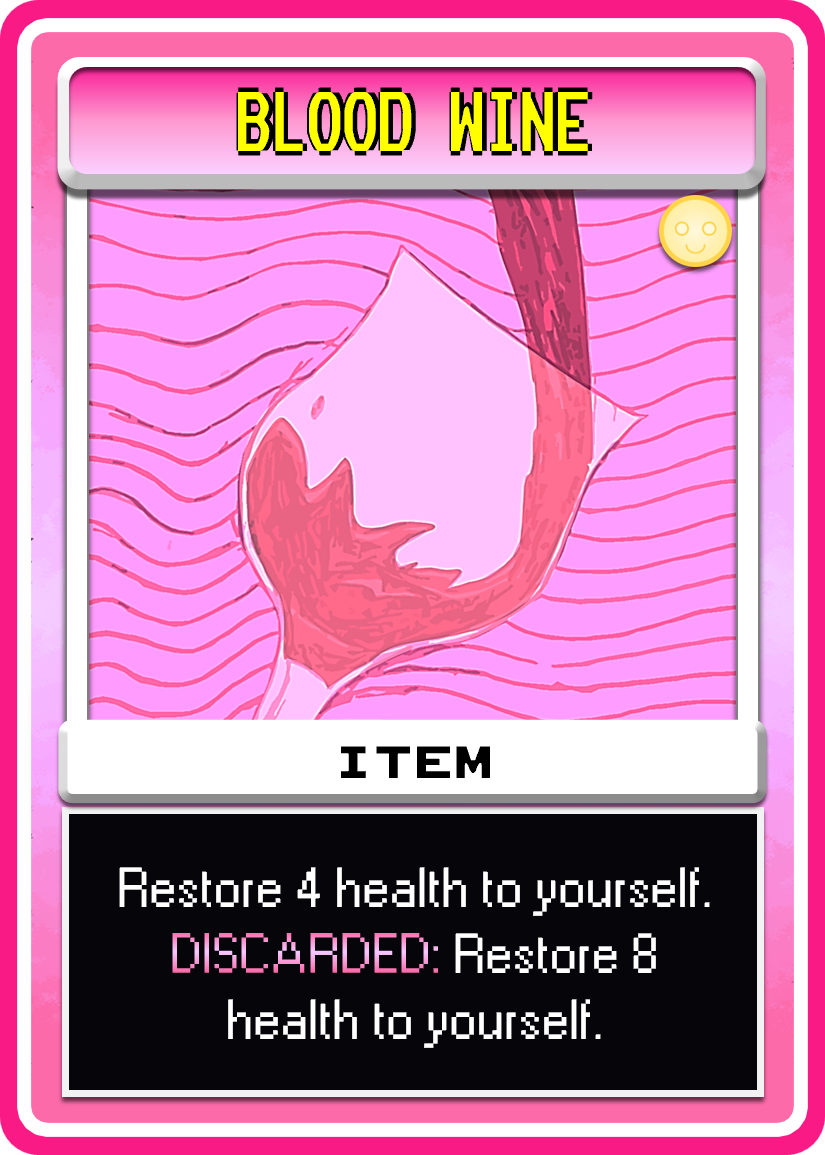
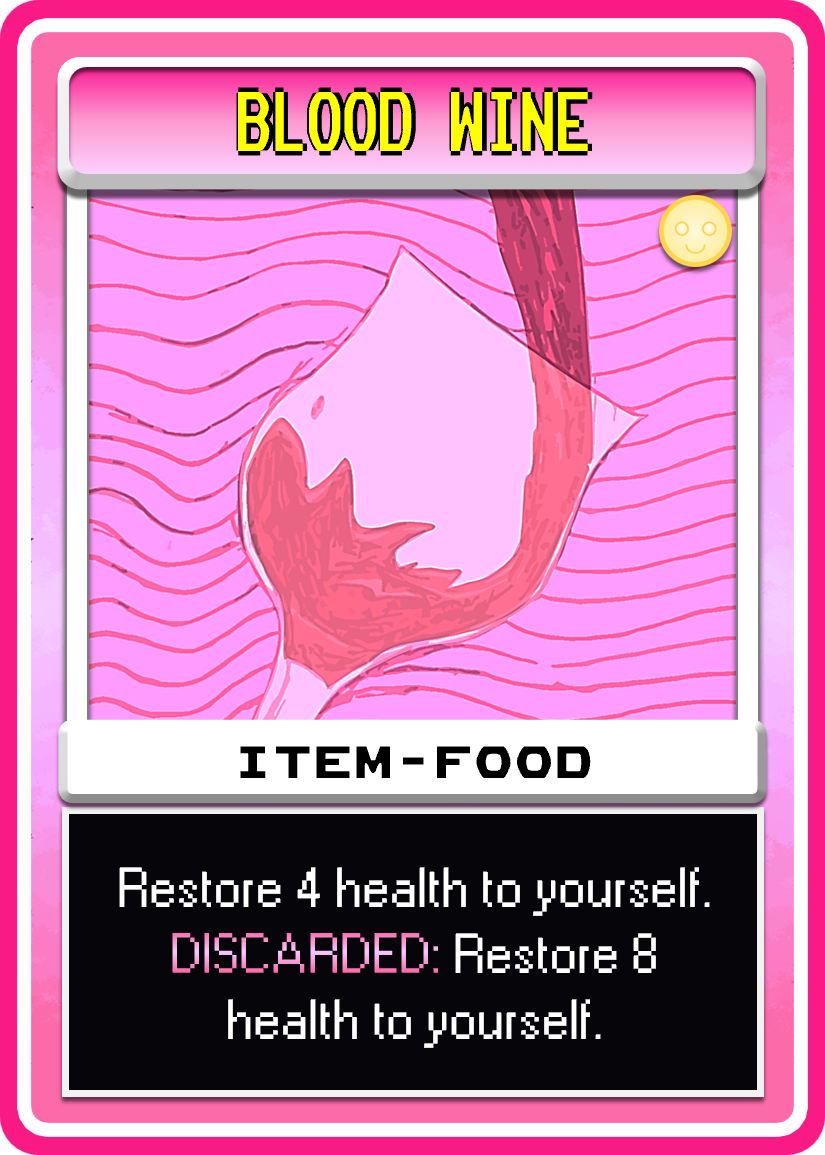
Sudden Death 0.0.8w: Natural Boy Genius

Changed region(s): [[0.2727, 0.6234, 0.7273, 0.6857]]

diff --git a/cardList.js b/cardList.js
@@ -1,7 +1,7 @@
 // List of Cards
 const cardList = new Array(
   // Abilities
-  ["agony_manifest", "Agony Manifest", "Ability", "Icklurtra"],
+  ["agony_manifest", "Agony Manifest", "Ability", "Masochist"],
   ["bomber_games", "Bomber Games", "Ability", "Moneybags"],
   ["calling_card", "Calling Card", "Ability", "Aoi Manto"],
   ["danse_macabre", "Danse Macabre", "Ability", "Hitzel"],
@@ -19,9 +19,11 @@ const cardList = new Array(
   ["immortal_body", "Immortal Body", "Ability", "Thysia"],
   ["investigate", "Investigate", "Ability", "Choizao"],
   ["jabberwocky", "Jabberwocky", "Ability", "Knell"],
+  ["lets_go_gambling", "Let's Go Gambling!", "Ability", "Albert"],
   ["life_swap", "Life Swap", "Ability", "Isabelle"],
   ["mass_pickle_doomsday_ray", "Mass Pickle Doomsday Ray", "Ability", "Geevil"],
   ["midas_touch", "Midas Touch", "Ability", "Quincy"],
+  ["natural_boy_genius", "Natural Boy Genius", "Ability", "Pinky"],
   ["occult_cutlery", "Occult Cutlery", "Ability", "Jujube"],
   ["right_of_way", "Right-of-Way", "Ability", "Traffic Knight"],
   ["royal_ego", "Royal Ego", "Ability", "Zekoma"],
@@ -90,7 +92,6 @@ const cardList = new Array(
   ["expel_evil", "Expel Evil", "Event", ""],
   ["faceless_shambles", "Faceless Shambles", "Event", ""],
   ["floradian_doorway", "Floradian Doorway", "Event", ""],
-  ["fortune_cookie", "Fortune Cookie", "Event", ""],
   ["funny_sunny_day", "Funny Sunny Day", "Event", ""],
   ["furcifer", "Furcifer", "Event", ""],
   ["gamblers_paradox", "Gamblers_Paradox", "Event", ""],
@@ -181,20 +182,21 @@ const cardList = new Array(
   ["zero_degree_murder", "Zero-Degree Murder", "Event", ""],
   // Items
   ["asternsolid_shell", "Asternsolid Shell", "Item", ""],
-  ["backup_milk_carton", "Backup Milk Carton", "Item", ""],
+  ["backup_milk_carton", "Backup Milk Carton", "Item", "Food"],
   ["banchou_bodysuit", "Banchou Bodysuit", "Item", ""],
-  ["blood_wine", "Blood Wine", "Item", ""],
+  ["blood_wine", "Blood Wine", "Item", "Food"],
   ["capsaicin_core", "Capsaicin Core", "Item", ""],
-  ["chatty", "Chatty", "Item", ""],
+  ["chatty", "Chatty", "Item", "Occult"],
   ["chronas_head", "Chrona's Head", "Item", ""],
-  ["clown_cola", "Clown Cola", "Item", ""],
+  ["clown_cola", "Clown Cola", "Item", "Food"],
   ["detached_hand", "Detached Hand", "Item", ""],
-  ["eidolon_elixir", "Eidolon Elixir", "Item", ""],
-  ["flesh_fungus", "Flesh Fungus", "Item", ""],
-  ["follower_mask", "Follower Mask", "Item", "Mask"],
-  ["freshly_squeezed_lemonade", "Freshly Squeezed Lemonade", "Item", ""],
-  ["nibble_bar", "Nibble Bar", "Item", ""],
-  ["observers_eye", "Observer's Eye", "Item", ""],
+  ["eidolon_elixir", "Eidolon Elixir", "Item", "Occult Food"],
+  ["flesh_fungus", "Flesh Fungus", "Item", "Occult Food"],
+  ["follower_mask", "Follower Mask", "Item", "Occult Mask"],
+  ["fortune_cookie", "Fortune Cookie", "Event", "Food"],
+  ["freshly_squeezed_lemonade", "Freshly Squeezed Lemonade", "Item", "Food"],
+  ["nibble_bar", "Nibble Bar", "Item", "Food"],
+  ["observers_eye", "Observer's Eye", "Item", "Occult"],
   ["orion_blizzard", "ORION Blizzard", "Item", "ORION"],
   ["orion_cyclone", "ORION Cyclone", "Item", "ORION"],
   ["orion_quake", "ORION Quake", "Item", "ORION"],
@@ -202,13 +204,13 @@ const cardList = new Array(
   ["orion_tornado", "ORION Tornado", "Item", "ORION"],
   ["orion_tsunami", "ORION Tsunami", "Item", "ORION"],
   ["orion_volcano", "ORION Volcano", "Item", "ORION"],
-  ["pocket_encyclopedia", "Pocket Encyclopedia", "Item", ""],
-  ["potion_of_self_love", "Potion of Self-Love", "Item", ""],
+  ["pocket_encyclopedia", "Pocket Encyclopedia", "Item", "Paper"],
+  ["potion_of_self_love", "Potion of Self-Love", "Item", "Food"],
   ["psychologic_mask", "Psychologic Mask", "Item", "Mask"],
   ["purple_pebble", "Purple Pebble", "Item", ""],
   ["remote_control", "Remote Control", "Item", ""],
   ["sniffer_mask", "Sniffer Mask", "Item", "Mask"],
-  ["strange_totem", "Strange Totem", "Item", ""],
+  ["strange_totem", "Strange Totem", "Item", "Occult"],
   ["traffic_knights_head", "Traffic Knight's Head", "Item", ""],
   // Tokens
   ["_plus_2_gold", "+2 Gold", "Event", ""],
